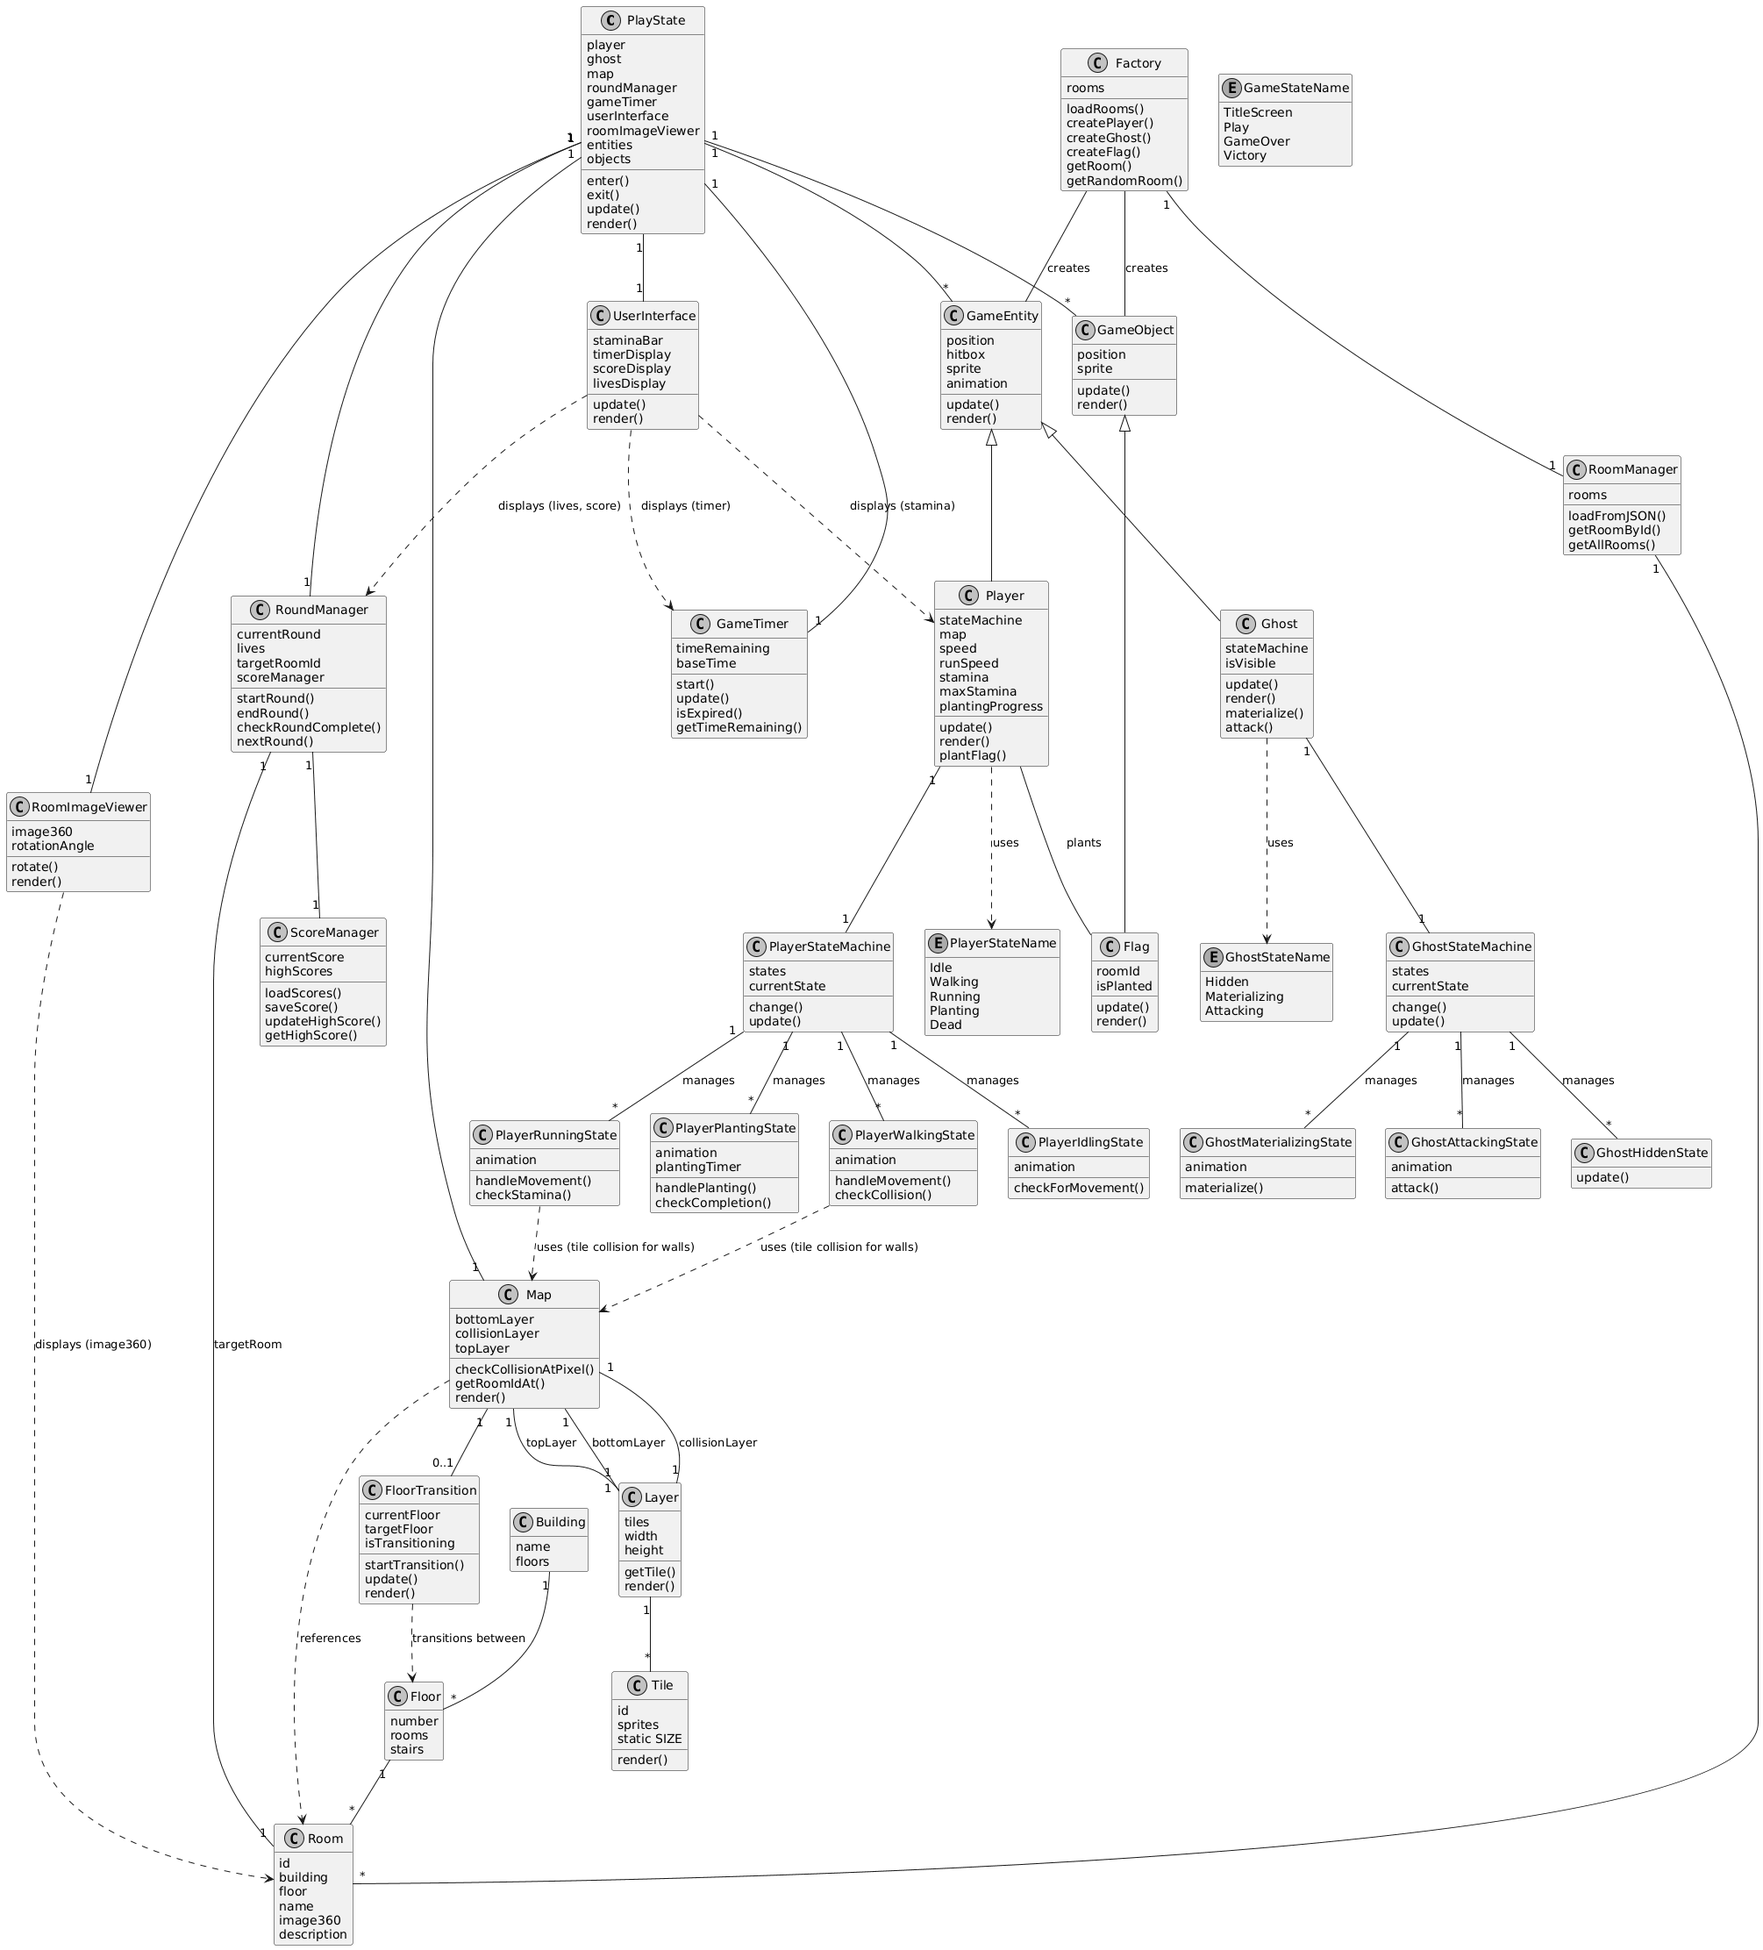
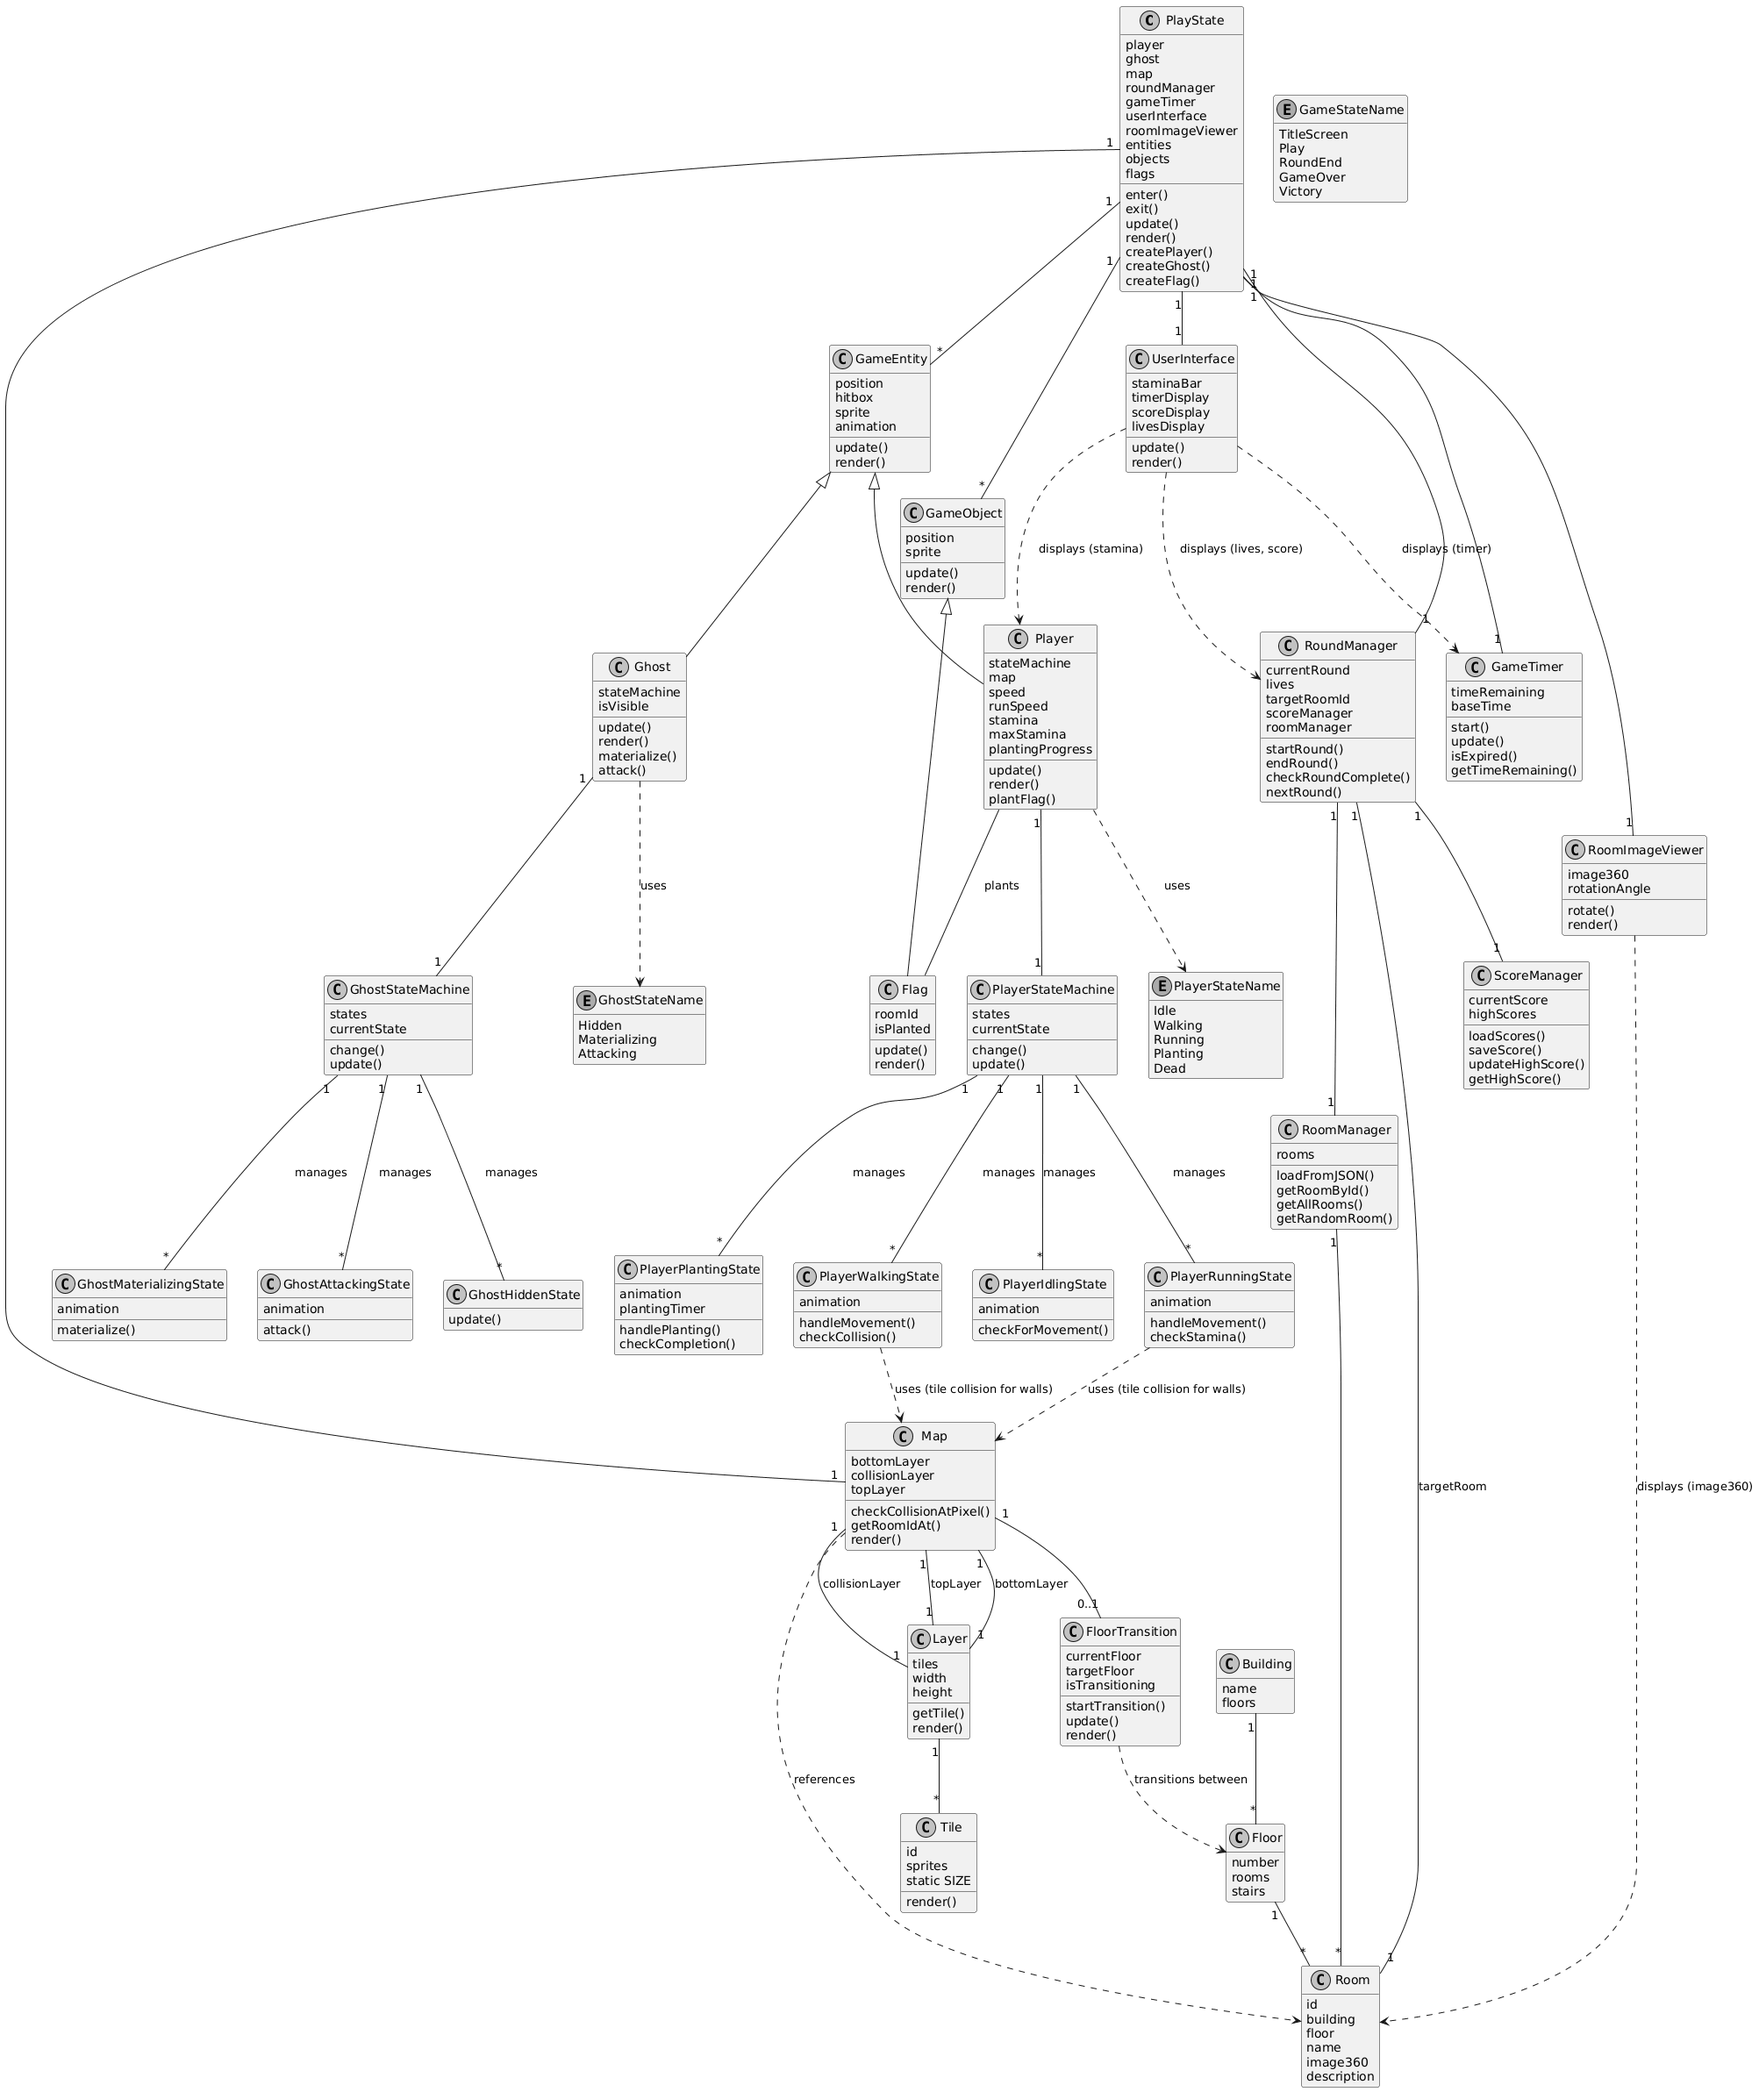
updated proposal after the feedbacl

diff --git a/README.md b/README.md
@@ -6,7 +6,7 @@ JAC Ghost Hunt is a horror-themed location guessing game set in John Abbott Coll
 
 The game architecture uses a state machine pattern for both player and ghost entities, allowing for smooth transitions between different behaviors. The player can be in one of five states: Idle, Walking, Running, Planting, or Dead. The ghost operates through three states: Hidden, Materializing, and Attacking. The game implements a hybrid collision system that uses tile-based collision for wall detection (similar to Pokemon-style games) and hitbox-based collision for entity interactions (similar to Zelda-style games).
 
-The map system is built with a three-layer architecture: a bottom layer for floor graphics, a collision layer for wall detection, and a top layer for decorative elements. Rooms are organized hierarchically within buildings and floors, with each room containing metadata such as building name, floor number, room name, 360° image, and description. The game uses a Factory pattern to create entities and objects, and a RoomManager to load room data from JSON configuration files.
+The map system is built with a three-layer architecture: a bottom layer for floor graphics, a collision layer for wall detection, and a top layer for decorative elements. Rooms are organized hierarchically within buildings and floors, with each room containing metadata such as building name, floor number, room name, 360° image, and description. The game uses a RoomManager to load room data from JSON configuration files, with entities created directly by the PlayState
 
 Players progress through up to five rounds, with each round ending in either a RoundEnd state (for successful completion) or GameOver state (for failure). The game tracks high scores using a ScoreManager that persists data to LocalStorage.
 
@@ -93,66 +93,64 @@ After all **five rounds** are completed or all three lives are lost the game end
 45. The system shall implement ghost states: GhostHiddenState, GhostMaterializingState, and GhostAttackingState.
 46. The system shall use a hybrid collision system: tile-based collision for wall detection and hitbox-based collision for entity interactions.
 47. The system shall implement a Map with three layers: bottomLayer (floor graphics), collisionLayer (wall detection), and topLayer (decorative elements).
-48. The system shall use a Factory pattern to create Player, Ghost, and Flag entities.
-49. The system shall use a RoomManager to load room data from JSON configuration files.
-50. The system shall implement a FloorTransition class to handle smooth transitions between floors.
+48. The system shall use a RoomManager to load room data from JSON configuration files.
+49. The system shall implement a FloorTransition class to handle smooth transitions between floors.
 
 ### Map & Room System
 
-51. The system shall organize rooms hierarchically: Building → Floor → Room.
-52. The system shall store room metadata including: id, building name, floor number, room name, 360° image path, and description.
-53. The system shall use a Layer class to manage tile data with width, height, and tile retrieval methods.
-54. The system shall use a Tile class with static SIZE property for consistent tile rendering.
-55. The system shall provide Map methods: checkCollisionAtPixel() for collision detection and getRoomIdAt() for room identification.
+50. The system shall organize rooms hierarchically: Building → Floor → Room.
+51. The system shall store room metadata including: id, building name, floor number, room name, 360° image path, and description.
+52. The system shall use a Layer class to manage tile data with width, height, and tile retrieval methods.
+53. The system shall use a Tile class with static SIZE property for consistent tile rendering.
+54. The system shall provide Map methods: checkCollisionAtPixel() for collision detection and getRoomIdAt() for room identification.
 
 ### Game States
 
-56. The system shall implement a RoundEnd state that displays after each round completion.
-57. The system shall transition from RoundEnd to Playing if lives > 0 and rounds < 5.
-58. The system shall transition from RoundEnd to GameOver if lives = 0 or rounds = 5.
-59. The system shall implement a Victory state for successful game completion (all 5 rounds completed with lives remaining).
-60. The system shall transition from RoundEnd to Victory when all 5 rounds are completed successfully.
+55. The system shall implement a RoundEnd state that displays after each round completion.
+56. The system shall transition from RoundEnd to Playing if lives > 0 and rounds < 5.
+57. The system shall transition from RoundEnd to GameOver if lives = 0 or rounds = 5.
+58. The system shall implement a Victory state for successful game completion (all 5 rounds completed with lives remaining).
+59. The system shall transition from RoundEnd to Victory when all 5 rounds are completed successfully.
 
 ### Player State Transitions
 
-61. The system shall transition PlayerIdle to PlayerWalking when WASD keys are pressed.
-62. The system shall transition PlayerWalking to PlayerIdle when movement keys are released.
-63. The system shall transition PlayerIdle or PlayerWalking to PlayerRunning when Shift is pressed and stamina > 0.
-64. The system shall transition PlayerRunning to PlayerWalking when Shift is released or stamina is depleted.
-65. The system shall transition PlayerRunning to PlayerIdle when all movement keys are released.
-66. The system shall transition any player state to PlayerPlanting when Enter is pressed.
-67. The system shall transition PlayerPlanting to PlayerIdle after 2 seconds if planting is successful.
-68. The system shall transition PlayerPlanting to PlayerDead if the flag is planted in the wrong room, timer expires, or planting is interrupted.
-69. The system shall transition any player state to PlayerDead when the game timer expires.
-70. The system shall regenerate stamina when the player is in PlayerIdle or PlayerWalking states.
-71. The system shall drain stamina when the player is in PlayerRunning state.
+60. The system shall transition PlayerIdle to PlayerWalking when WASD keys are pressed.
+61. The system shall transition PlayerWalking to PlayerIdle when movement keys are released.
+62. The system shall transition PlayerIdle or PlayerWalking to PlayerRunning when Shift is pressed and stamina > 0.
+63. The system shall transition PlayerRunning to PlayerWalking when Shift is released or stamina is depleted.
+64. The system shall transition PlayerRunning to PlayerIdle when all movement keys are released.
+65. The system shall transition any player state to PlayerPlanting when Enter is pressed.
+66. The system shall transition PlayerPlanting to PlayerIdle after 2 seconds if planting is successful.
+67. The system shall transition PlayerPlanting to PlayerDead if the flag is planted in the wrong room, timer expires, or planting is interrupted.
+68. The system shall transition any player state to PlayerDead when the game timer expires.
+69. The system shall regenerate stamina when the player is in PlayerIdle or PlayerWalking states.
+70. The system shall drain stamina when the player is in PlayerRunning state.
 
 ### Ghost State Transitions
 
-72. The system shall keep the ghost in GhostHidden state during normal gameplay.
-73. The system shall transition GhostHidden to GhostMaterializing when a failure condition occurs (wrong room, timeout, or interrupted planting).
-74. The system shall transition GhostMaterializing to GhostAttacking instantly when the ghost appears.
-75. The system shall transition GhostAttacking back to GhostHidden after the kill animation completes.
-76. The system shall make the ghost visible only during GhostMaterializing and GhostAttacking states.
+71. The system shall keep the ghost in GhostHidden state during normal gameplay.
+72. The system shall transition GhostHidden to GhostMaterializing when a failure condition occurs (wrong room, timeout, or interrupted planting).
+73. The system shall transition GhostMaterializing to GhostAttacking instantly when the ghost appears.
+74. The system shall transition GhostAttacking back to GhostHidden after the kill animation completes.
+75. The system shall make the ghost visible only during GhostMaterializing and GhostAttacking states.
 
 ### Score & Timer Management
 
-77. The system shall use a ScoreManager class separate from RoundManager to handle score operations.
-78. The system shall use a GameTimer class with methods: start(), update(), isExpired(), and getTimeRemaining().
-79. The system shall track baseTime and timeRemaining in the GameTimer.
-80. The system shall use RoundManager to coordinate between ScoreManager, GameTimer, and target room selection.
+76. The system shall use a ScoreManager class separate from RoundManager to handle score operations.
+77. The system shall use a GameTimer class with methods: start(), update(), isExpired(), and getTimeRemaining().
+78. The system shall track baseTime and timeRemaining in the GameTimer.
+79. The system shall use RoundManager to coordinate between ScoreManager, GameTimer, and target room selection.
 
 ### UI Components
 
-81. The system shall use a RoomImageViewer class to display and rotate 360° room images.
-82. The system shall track rotationAngle in RoomImageViewer for mouse-based rotation.
-83. The system shall use a UserInterface class to display staminaBar, timerDisplay, scoreDisplay, and livesDisplay.
-84. The system shall update UI components each frame through UserInterface.update() and UserInterface.render() methods.
+80. The system shall use a RoomImageViewer class to display and rotate 360° room images.
+81. The system shall track rotationAngle in RoomImageViewer for mouse-based rotation.
+82. The system shall use a UserInterface class to display staminaBar, timerDisplay, scoreDisplay, and livesDisplay.
+83. The system shall update UI components each frame through UserInterface.update() and UserInterface.render() methods.
 
 ### State Diagram
 
 ![State Diagram](./assets/images/proposal/StateDiagram.png)
-
 
 ### Class Diagram
 
@@ -181,24 +179,28 @@ After all **five rounds** are completed or all three lives are lost the game end
 ![Victory Screen](./assets/images/proposal/Victory.png)
 
 ### Assets
+
 Assets and textures will be sourced from [Modern Interiors](https://limezu.itch.io/moderninteriors).
 
 #### Images
-For the 360° images, panoramic photos will be taken of each room at John Abbott College. 
+
+For the 360° images, panoramic photos will be taken of each room at John Abbott College.
 
 #### Fonts
-- **Anton** (Anton Regular) - Used for the game logo/title with custom styling (letter-spacing: -1px, font-weight: 900, vertical scale: 1.1)
+
+-   **Anton** (Anton Regular) - Used for the game logo/title with custom styling (letter-spacing: -1px, font-weight: 900, vertical scale: 1.1)
+-   **Roboto** (Roboto Regular, Roboto Bold) - Used for UI elements, score display, timer, and button text
 
 #### Sounds
 
 Sound effects will be sourced from [Freesound.org](https://freesound.org), a community-driven database of free sound effects. The game will require the following sound effects:
 
-- **Footsteps** - Walking and running sounds for player movement
-- **Door sounds** - Opening and closing door effects
-- **Stairs** - Footstep sounds for ascending/descending stairs
-- **Ghost materializing** - Horror-themed sound for ghost appearance
-- **Ghost attack** - Sound effect for when the ghost kills the player
-- **Flag planting** - Success sound when flag is placed correctly
-- **Round complete** - Sound for successful round completion
-- **Game over** - Sound for game failure
-- **Victory** - Sound for completing all rounds successfully
+-   **Footsteps** - Walking and running sounds for player movement
+-   **Door sounds** - Opening and closing door effects
+-   **Stairs** - Footstep sounds for ascending/descending stairs
+-   **Ghost materializing** - Horror-themed sound for ghost appearance
+-   **Ghost attack** - Sound effect for when the ghost kills the player
+-   **Flag planting** - Success sound when flag is placed correctly
+-   **Round complete** - Sound for successful round completion
+-   **Game over** - Sound for game failure
+-   **Victory** - Sound for completing all rounds successfully
